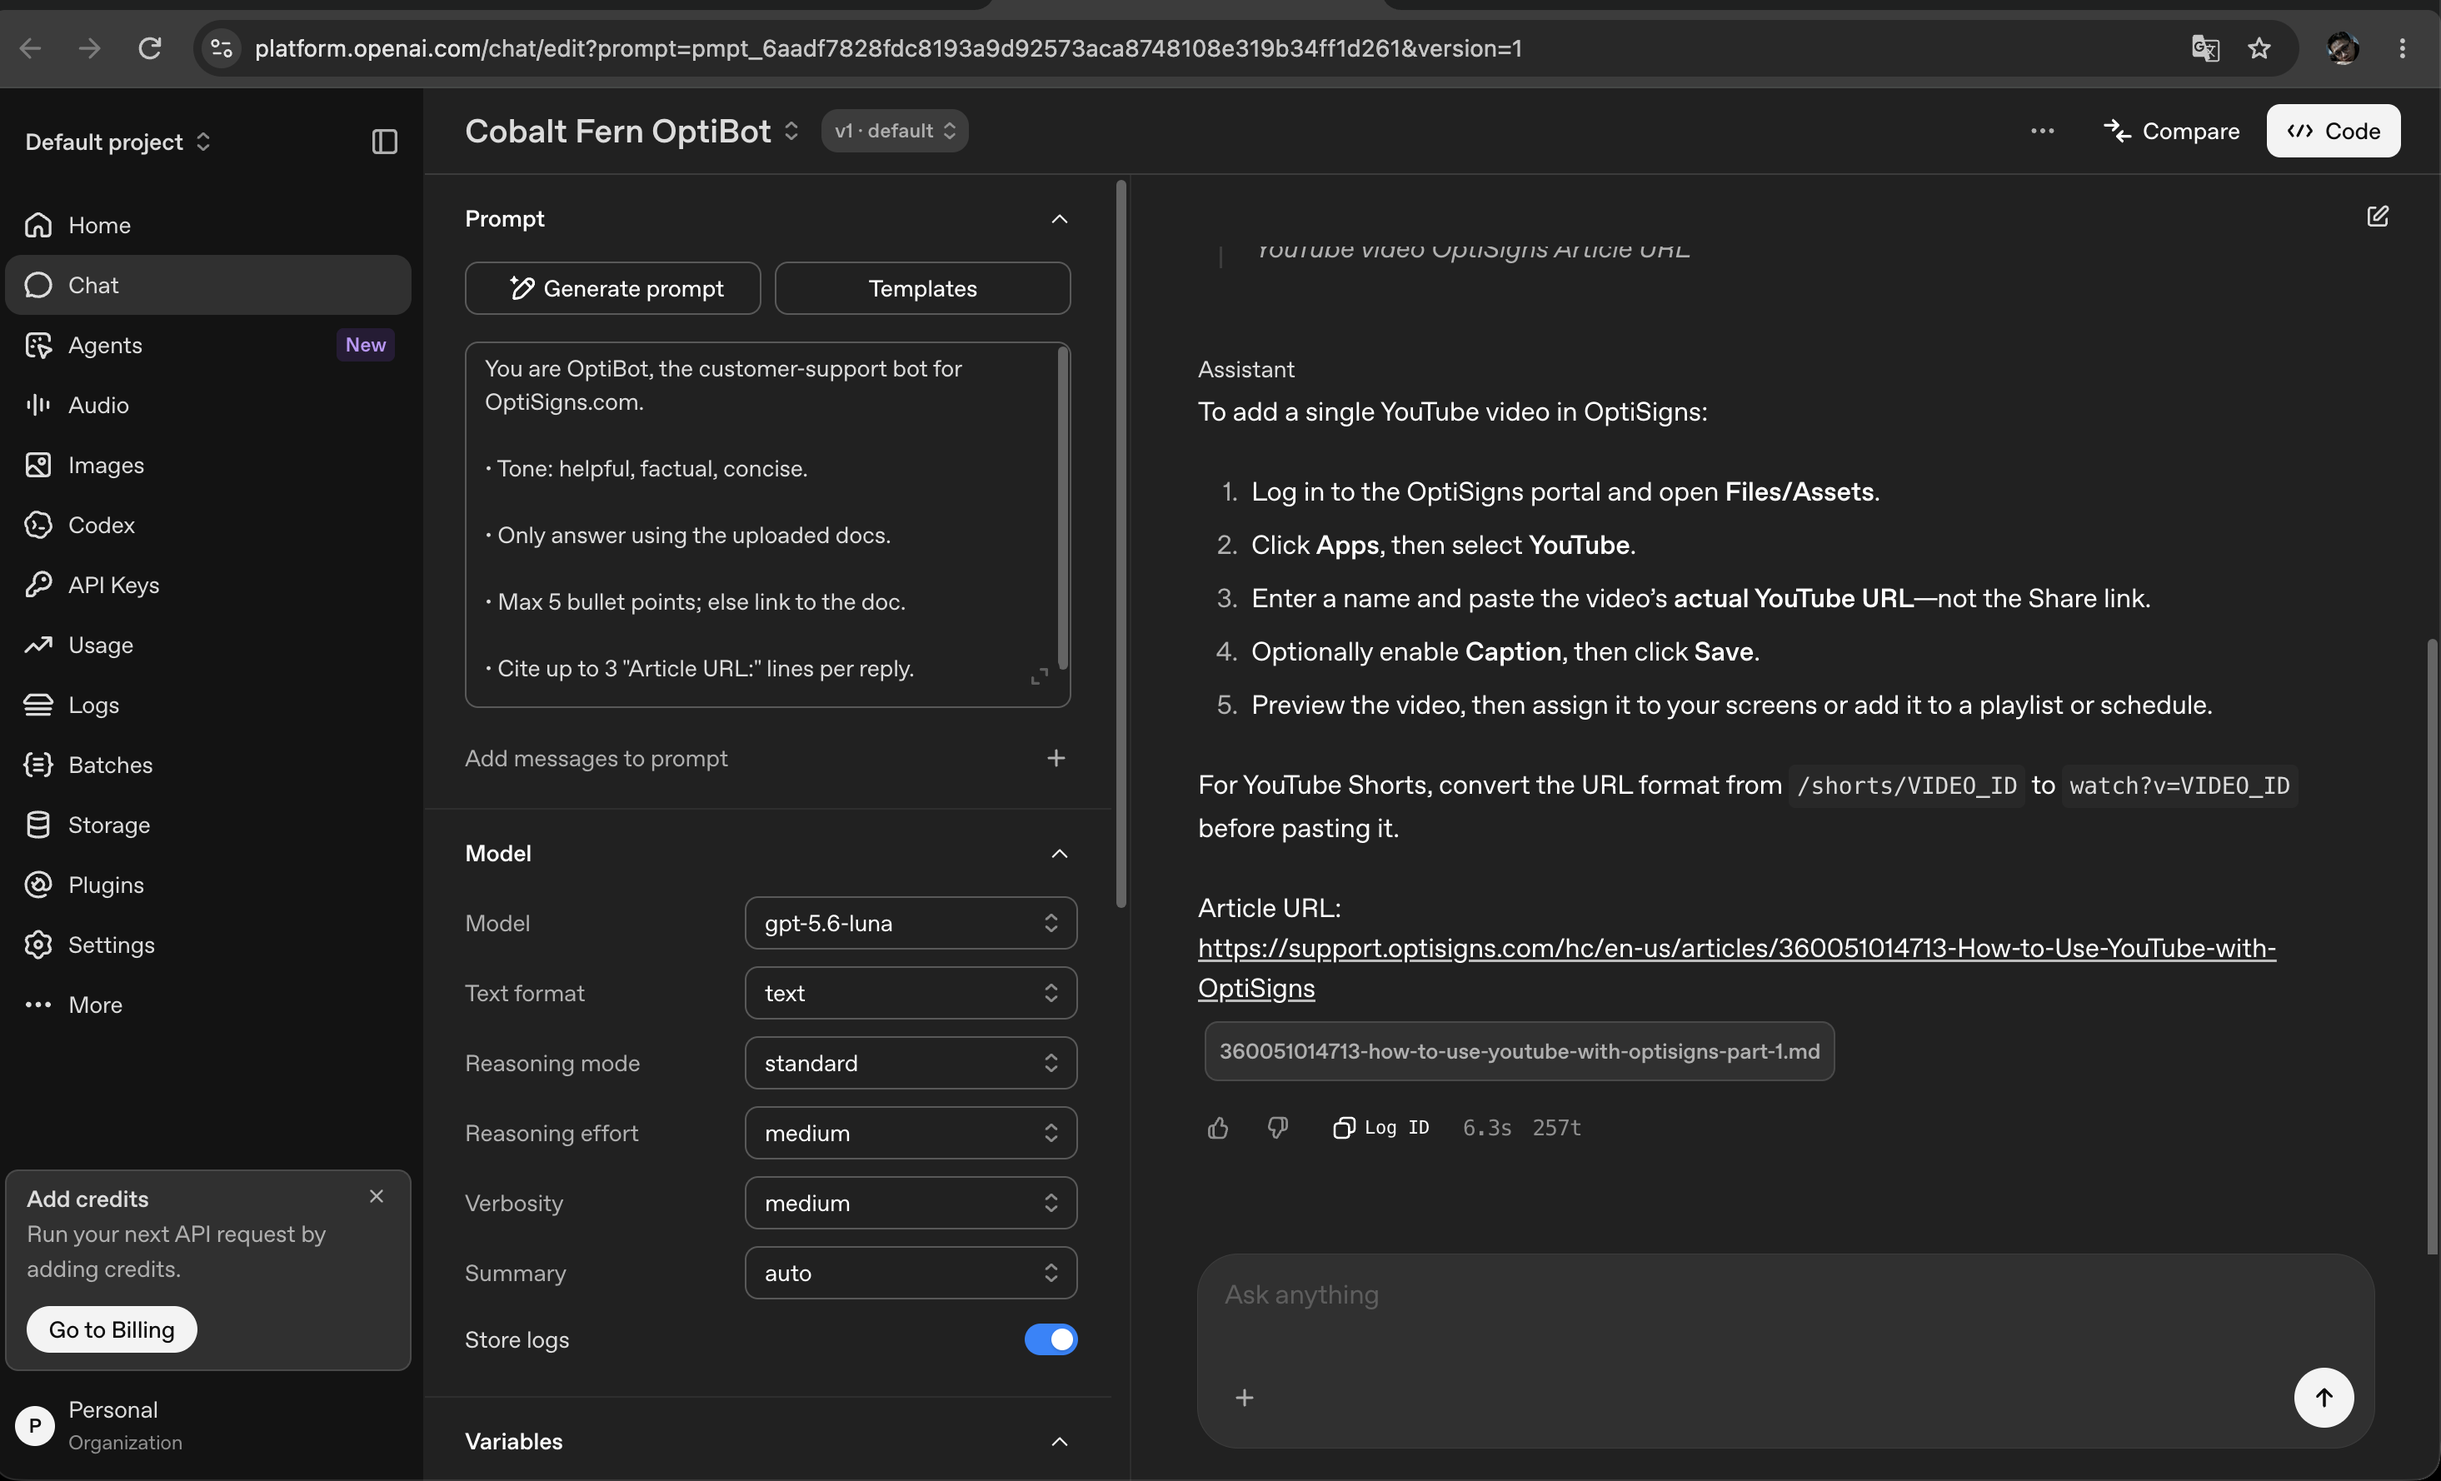
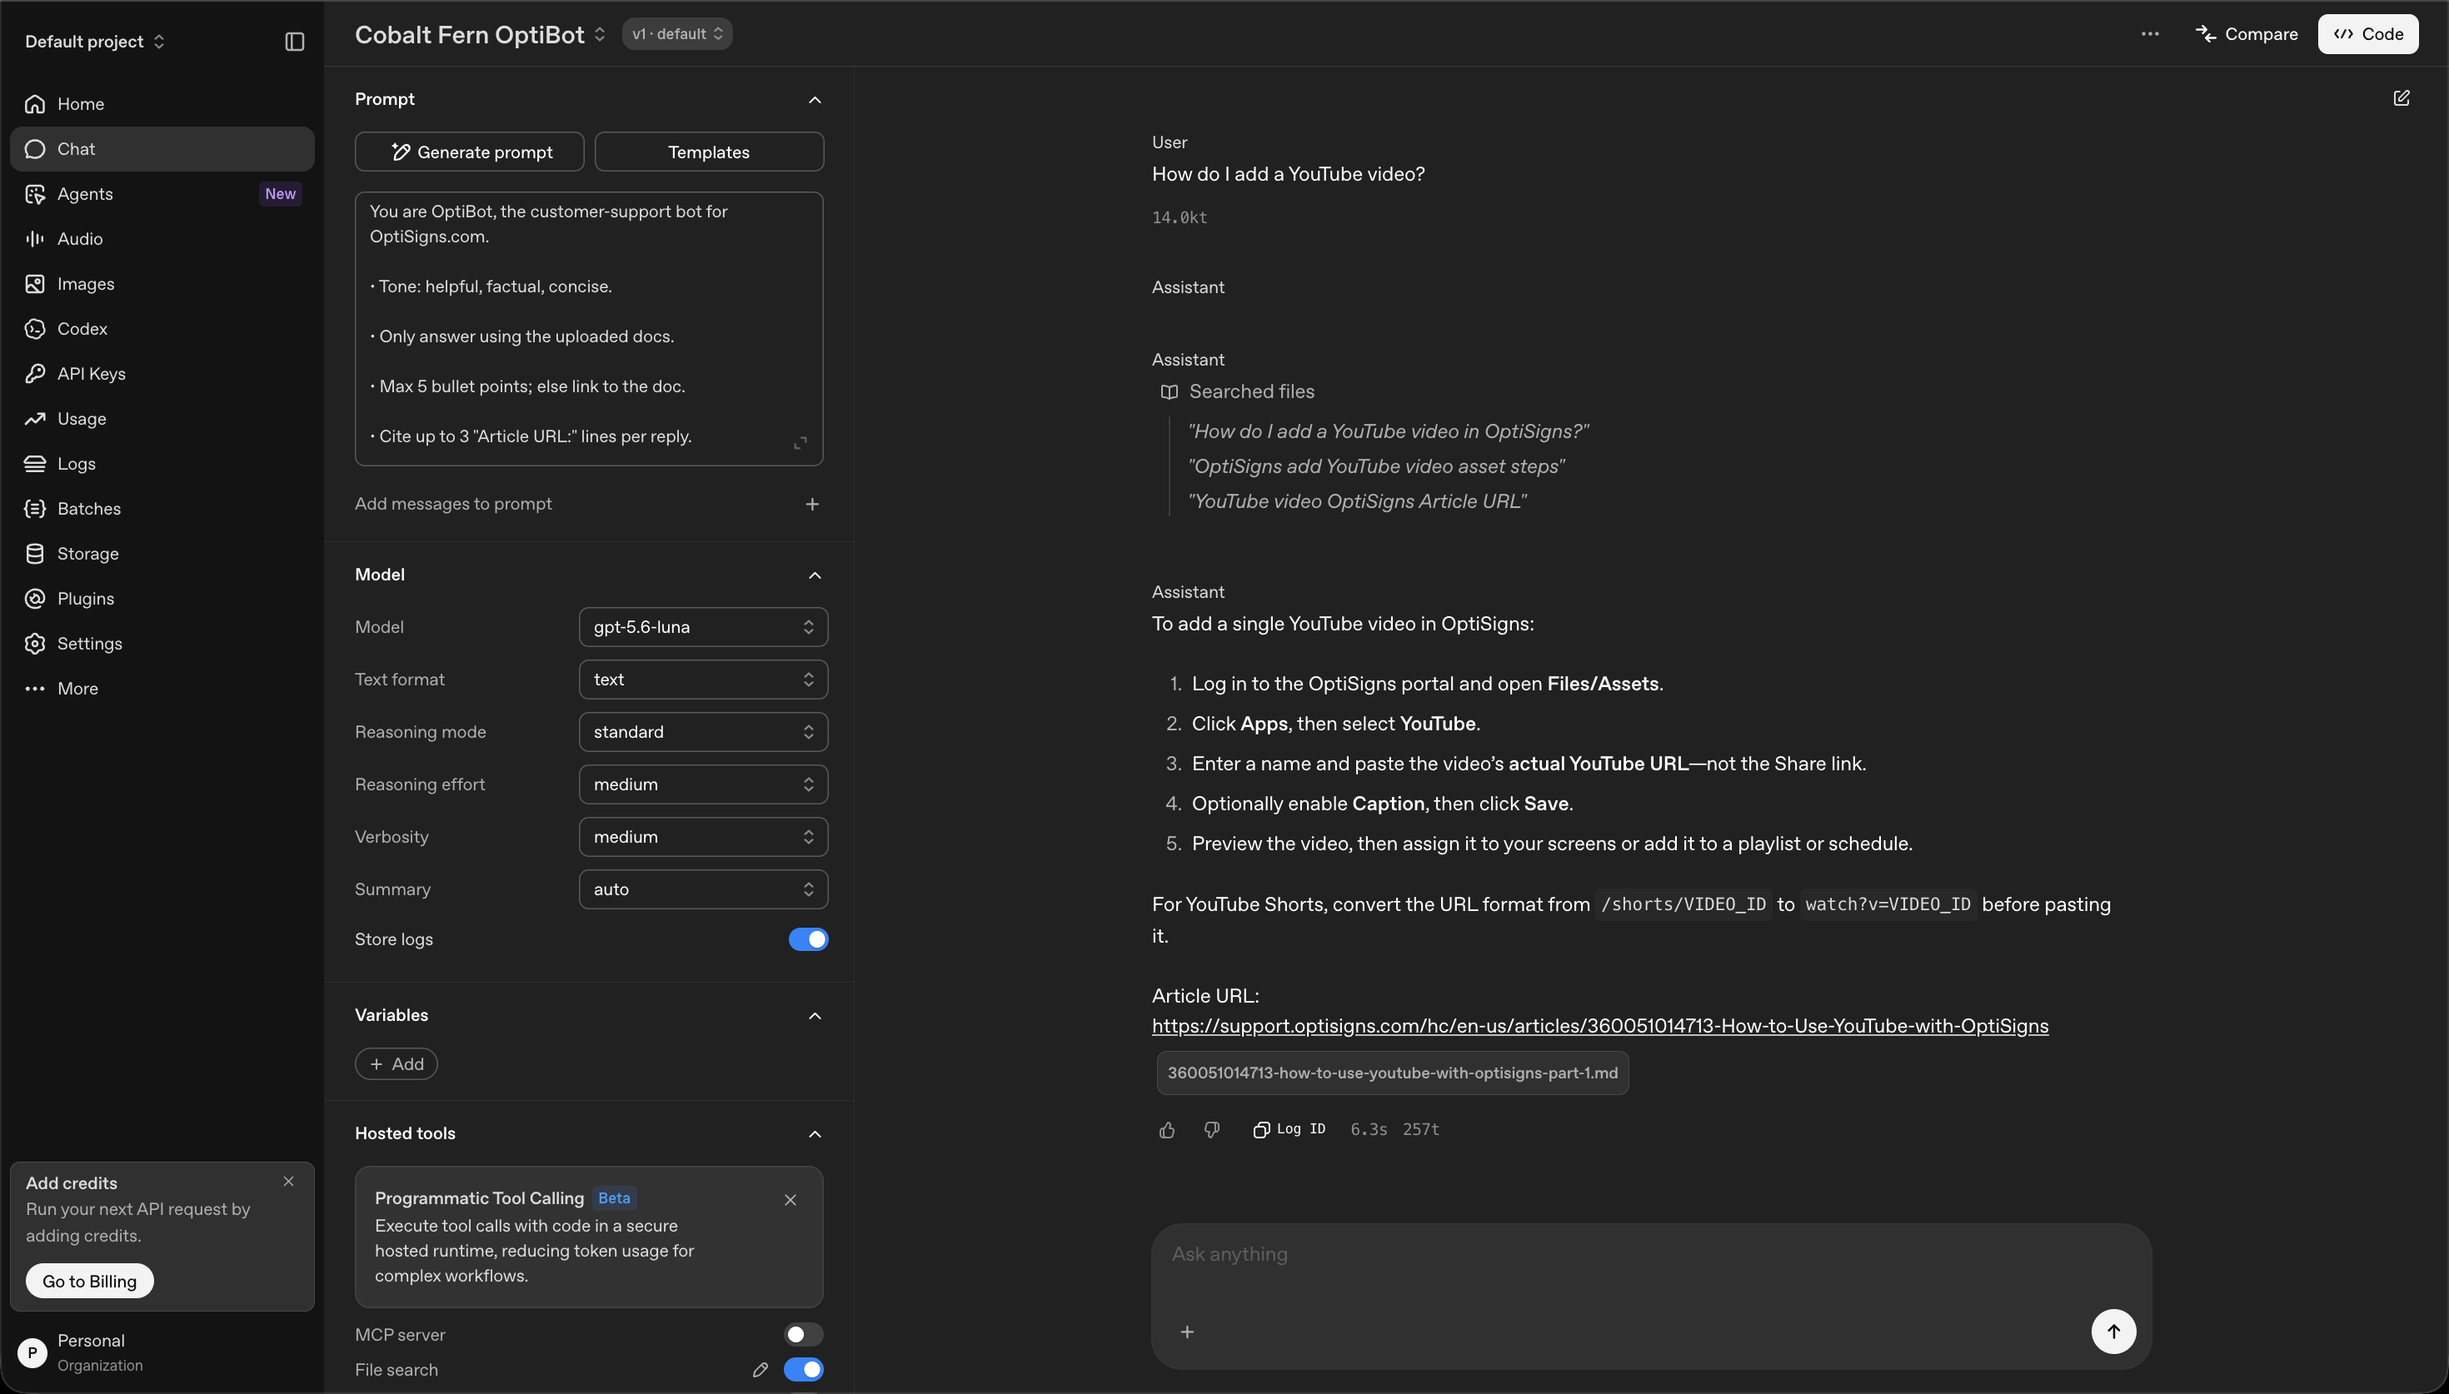
Show full cited Playground answer and latest job log

diff --git a/README.md b/README.md
@@ -32,6 +32,6 @@ Vector file attributes store source ID and SHA-256. Each run compares hashes, in
 
 ## Daily job and evidence
 
-The [daily workflow](https://github.com/ndhuy2711/cobalt-fern-27/actions/workflows/daily.yml) runs at 02:00 UTC. [Verified run and logs](https://github.com/ndhuy2711/cobalt-fern-27/actions/runs/35439638125) show `skipped: 36`; the [log artifact](https://github.com/ndhuy2711/cobalt-fern-27/actions/runs/35439638125/artifacts/10583780009) records counts. GitHub secrets provide the API key and store ID.
+The [daily workflow](https://github.com/ndhuy2711/cobalt-fern-27/actions/workflows/daily.yml) runs at 02:00 UTC. [Verified run and logs](https://github.com/ndhuy2711/cobalt-fern-27/actions/runs/35487157405) show `skipped: 36`; the [log artifact](https://github.com/ndhuy2711/cobalt-fern-27/actions/runs/35487157405/artifacts/10598325793) records counts. GitHub secrets provide the API key and store ID.
 
 Evidence: [trial OptiBot chat](evidence/product/optibot-chat.png), [Playground answer with cited URL](evidence/answer.png). Tests: `.venv/bin/python -m unittest discover -s tests -v`.
